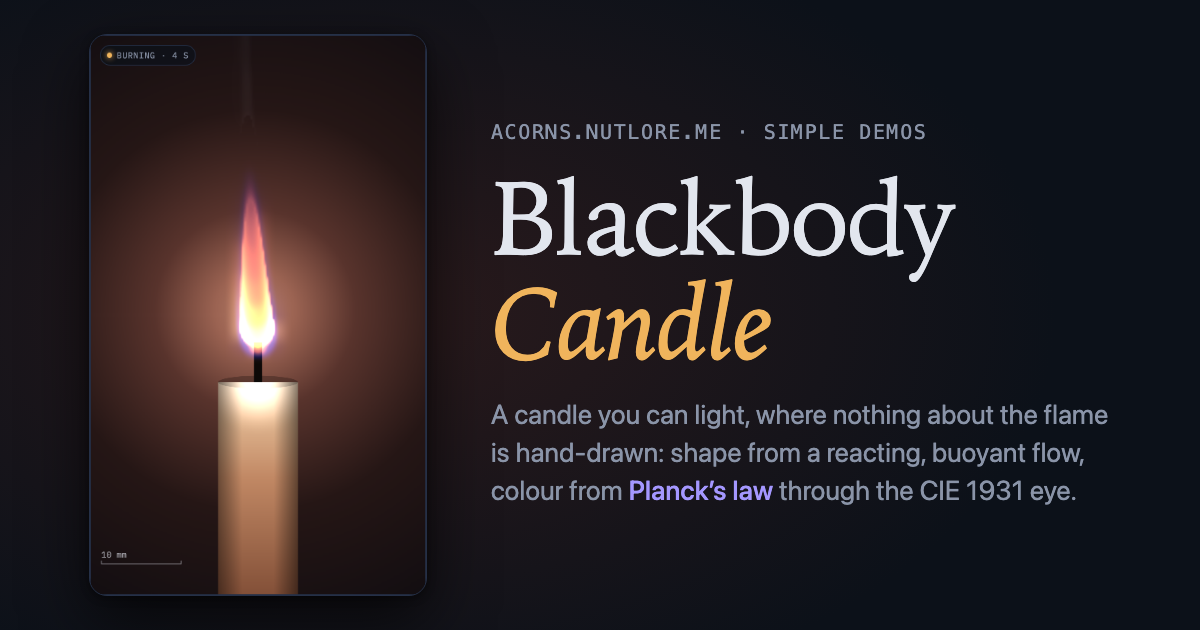
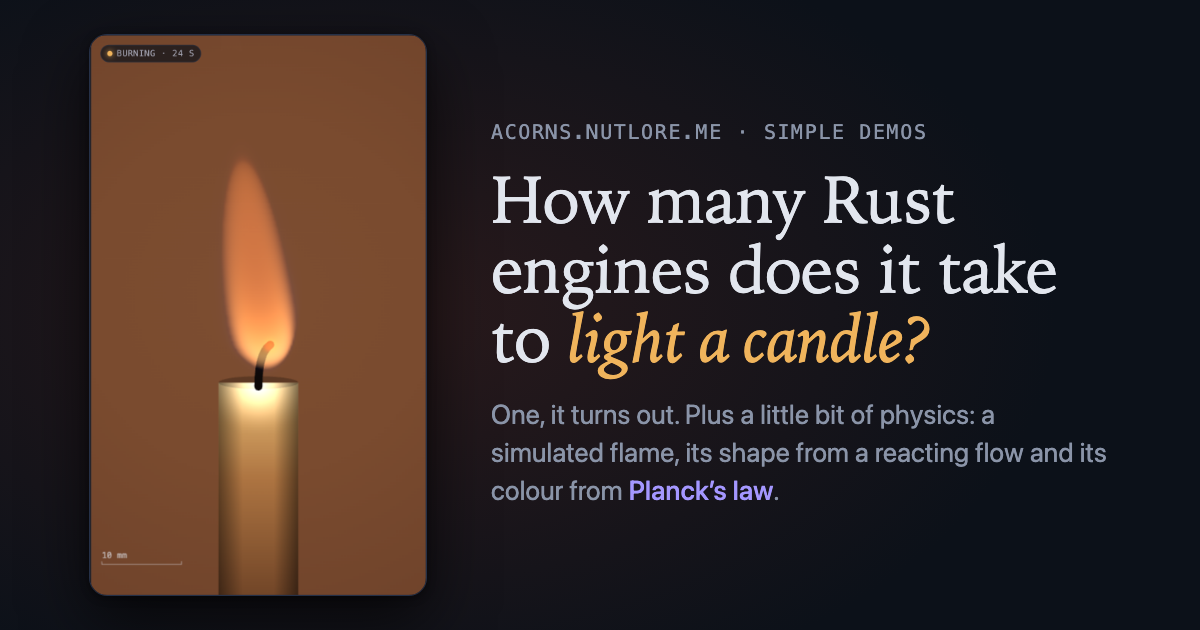
Adjust ogg + fix mobile

Changed region(s): [[0.0617, 0.0302, 0.37, 0.9651], [0.4008, 0.2714, 0.8942, 0.6032], [0.4008, 0.6333, 0.925, 0.8143]]

diff --git a/public/blackbody-candle/index.html b/public/blackbody-candle/index.html
@@ -79,7 +79,7 @@
   .stage { position: sticky; top: 0.75rem; display: grid; gap: 0.75rem; min-width: 0; }
   @media (max-width: 820px) { .stage { position: static; } }
   .frame { position: relative; width: 100%; max-width: 440px; aspect-ratio: 3 / 5; border-radius: 14px; overflow: hidden; background: #070a10; border: 1px solid var(--edge); justify-self: center; color-scheme: dark; }
-  canvas#flame { width: 100%; height: 100%; display: block; touch-action: none; cursor: pointer; }
+  canvas#flame { width: 100%; height: 100%; display: block; touch-action: pan-y pinch-zoom; cursor: pointer; }
   .hint { position: absolute; left: 0; right: 0; bottom: 14px; text-align: center; font: 12px var(--mono); color: #a2a2b0; pointer-events: none; transition: opacity 0.4s; }
   .status { position: absolute; top: 12px; left: 12px; font: 11px var(--mono); letter-spacing: 0.06em; text-transform: uppercase; padding: 4px 8px; border-radius: 999px; background: rgba(12, 17, 25, 0.7); border: 1px solid #2e2e38; color: #a2a2b0; display: flex; gap: 6px; align-items: center; }
   .status i { width: 7px; height: 7px; border-radius: 50%; background: #a2a2b0; display: inline-block; }

diff --git a/src/blackbody-candle/web/index.template.html b/src/blackbody-candle/web/index.template.html
@@ -79,7 +79,7 @@
   .stage { position: sticky; top: 0.75rem; display: grid; gap: 0.75rem; min-width: 0; }
   @media (max-width: 820px) { .stage { position: static; } }
   .frame { position: relative; width: 100%; max-width: 440px; aspect-ratio: 3 / 5; border-radius: 14px; overflow: hidden; background: #070a10; border: 1px solid var(--edge); justify-self: center; color-scheme: dark; }
-  canvas#flame { width: 100%; height: 100%; display: block; touch-action: none; cursor: pointer; }
+  canvas#flame { width: 100%; height: 100%; display: block; touch-action: pan-y pinch-zoom; cursor: pointer; }
   .hint { position: absolute; left: 0; right: 0; bottom: 14px; text-align: center; font: 12px var(--mono); color: #a2a2b0; pointer-events: none; transition: opacity 0.4s; }
   .status { position: absolute; top: 12px; left: 12px; font: 11px var(--mono); letter-spacing: 0.06em; text-transform: uppercase; padding: 4px 8px; border-radius: 999px; background: rgba(12, 17, 25, 0.7); border: 1px solid #2e2e38; color: #a2a2b0; display: flex; gap: 6px; align-items: center; }
   .status i { width: 7px; height: 7px; border-radius: 50%; background: #a2a2b0; display: inline-block; }

diff --git a/og/blackbody-candle.html b/og/blackbody-candle.html
@@ -47,8 +47,8 @@
     h1 {
       font-family: "Instrument Serif", "Iowan Old Style", Georgia, serif;
       font-weight: 400;
-      font-size: 104px;
-      line-height: 1;
+      font-size: 66px;
+      line-height: 1.05;
       letter-spacing: -0.01em;
     }
     h1 em {
@@ -67,7 +67,7 @@
   <img src="blackbody-candle-src.png" alt="" />
   <div class="text">
     <div class="eyebrow">acorns.nutlore.me · simple demos</div>
-    <h1>Blackbody <em>Candle</em></h1>
-    <p>A candle you can light, where nothing about the flame is hand-drawn: shape from a reacting, buoyant flow, colour from <b>Planck’s law</b> through the CIE 1931 eye.</p>
+    <h1>How many Rust engines does it take to <em>light a candle?</em></h1>
+    <p>One, it turns out. Plus a little bit of physics: a simulated flame, its shape from a reacting flow and its colour from <b>Planck’s law</b>.</p>
   </div>
 </html>
